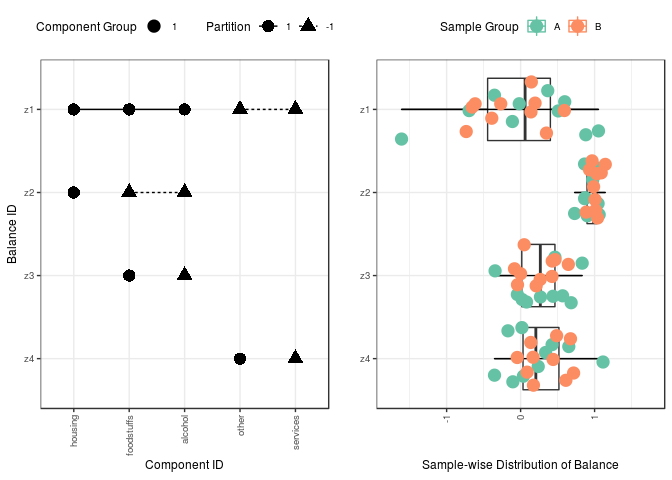
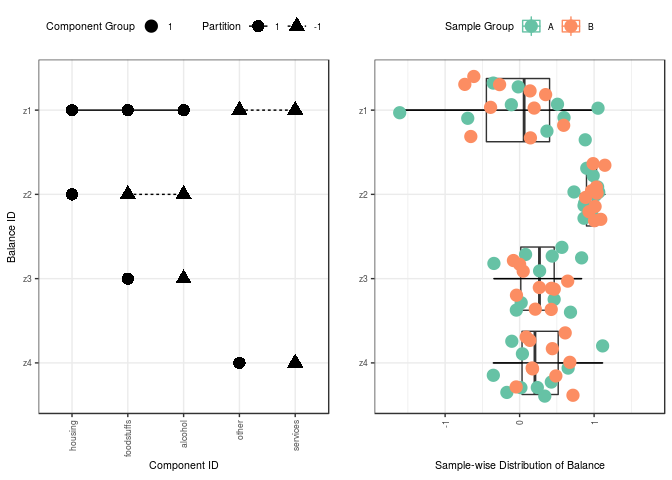
Fix clipping of figure in README and vignette

diff --git a/README.md b/README.md
@@ -29,7 +29,7 @@ colnames(y1) <- paste0("z", 1:4)
 With the data loaded, we can calculate and visualize the balances.
 
 ``` r
-res <- balance(expenditures, y1, size.text = 9)
+res <- balance(expenditures, y1, size.text = 8)
 #> sROC 0.1-2 loaded
 ```
 
@@ -40,7 +40,7 @@ Optionally, users can color components (in left figure) or samples (in right fig
 Here, we color components by a user-defined grouping.
 
 ``` r
-res <- balance(expenditures, y1, d.group = c("A", "B", "A", "B", "C"), size.text = 9)
+res <- balance(expenditures, y1, d.group = c("A", "B", "A", "B", "C"), size.text = 8)
 ```
 
 ![](README-unnamed-chunk-5-1.png)
@@ -48,7 +48,7 @@ res <- balance(expenditures, y1, d.group = c("A", "B", "A", "B", "C"), size.text
 Here, we color samples by a user-defined grouping.
 
 ``` r
-res <- balance(expenditures, y1, n.group = c(rep("A", 10), rep("B", 10)), size.text = 9)
+res <- balance(expenditures, y1, n.group = c(rep("A", 10), rep("B", 10)), size.text = 8)
 ```
 
 ![](README-unnamed-chunk-6-1.png)
@@ -59,7 +59,7 @@ Here, we do both.
 res <- balance(expenditures, y1,
                d.group = c("A", "B", "A", "B", "C"),
                n.group = c(rep("A", 10), rep("B", 10)),
-               size.text = 9)
+               size.text = 8)
 ```
 
 ![](README-unnamed-chunk-7-1.png)
